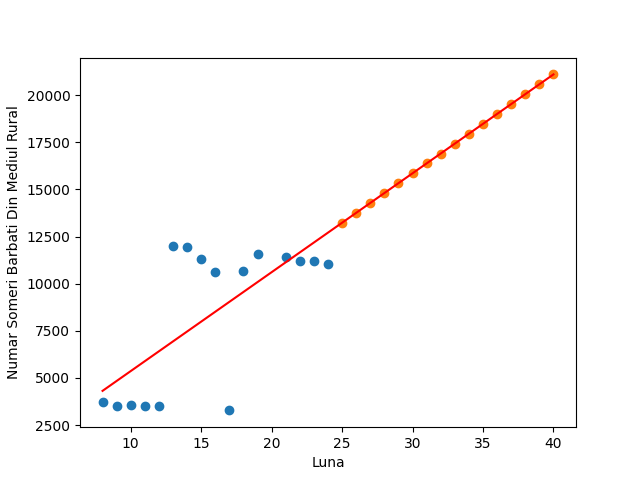
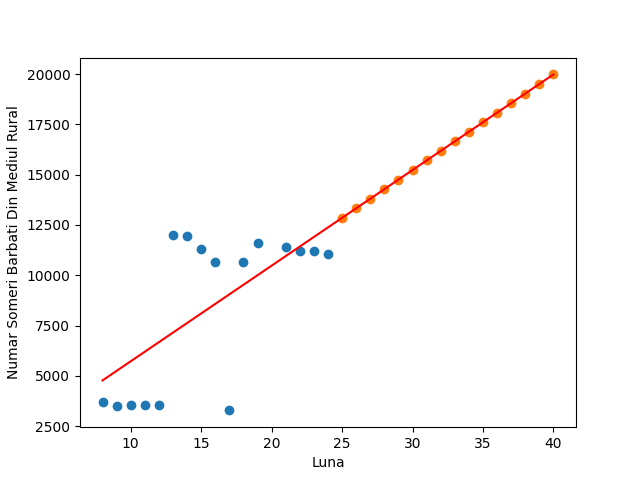
Minor changes to PredictionApp

diff --git a/PredictionApp/predict.py b/PredictionApp/predict.py
@@ -1,7 +1,7 @@
 import unemployed_data as ud;
 
 input_document_format = './Data/medii-somaj-%s-%d.csv';
-epochs = 100000;
+epochs = 10000;
 
 plot_folder = './Plots/';
 output_folder = './Output/';

diff --git a/PredictionApp/unemployed_data.py b/PredictionApp/unemployed_data.py
@@ -1,5 +1,5 @@
 import re;
-import pandas as pd; 
+import pandas as pd;
 import linear_regression as lr;
 
 class UnemployedData:
